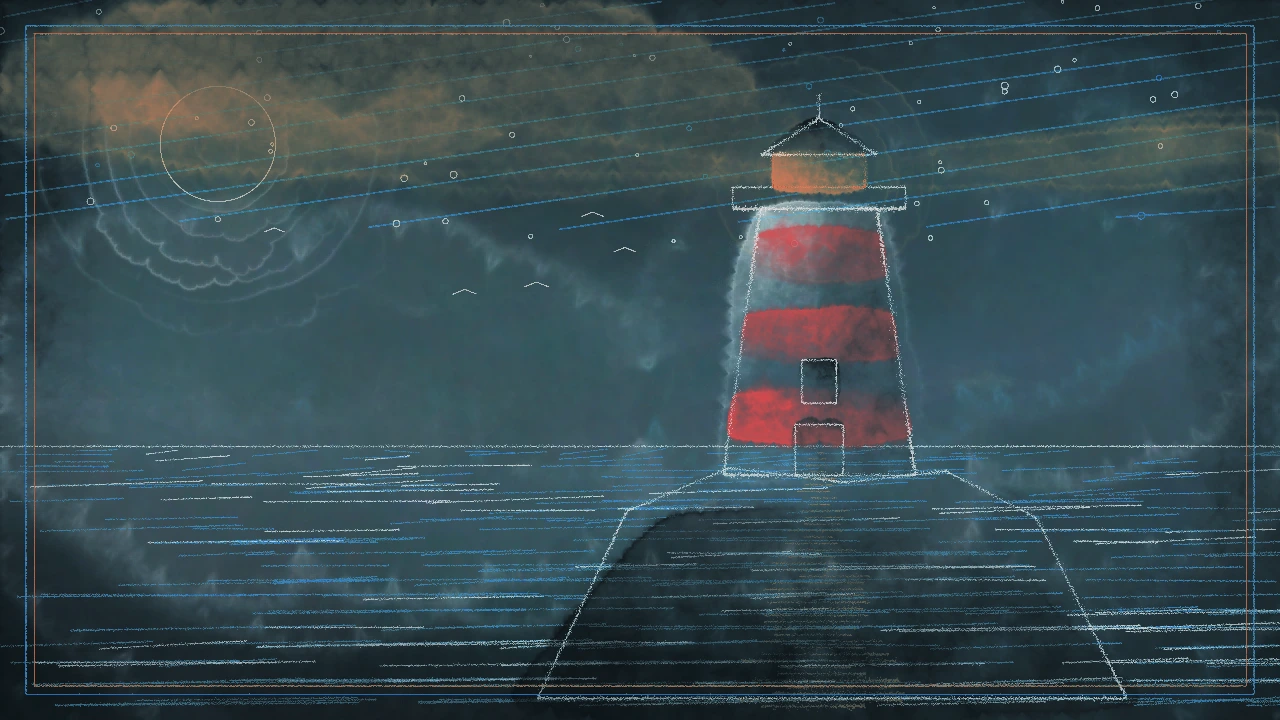
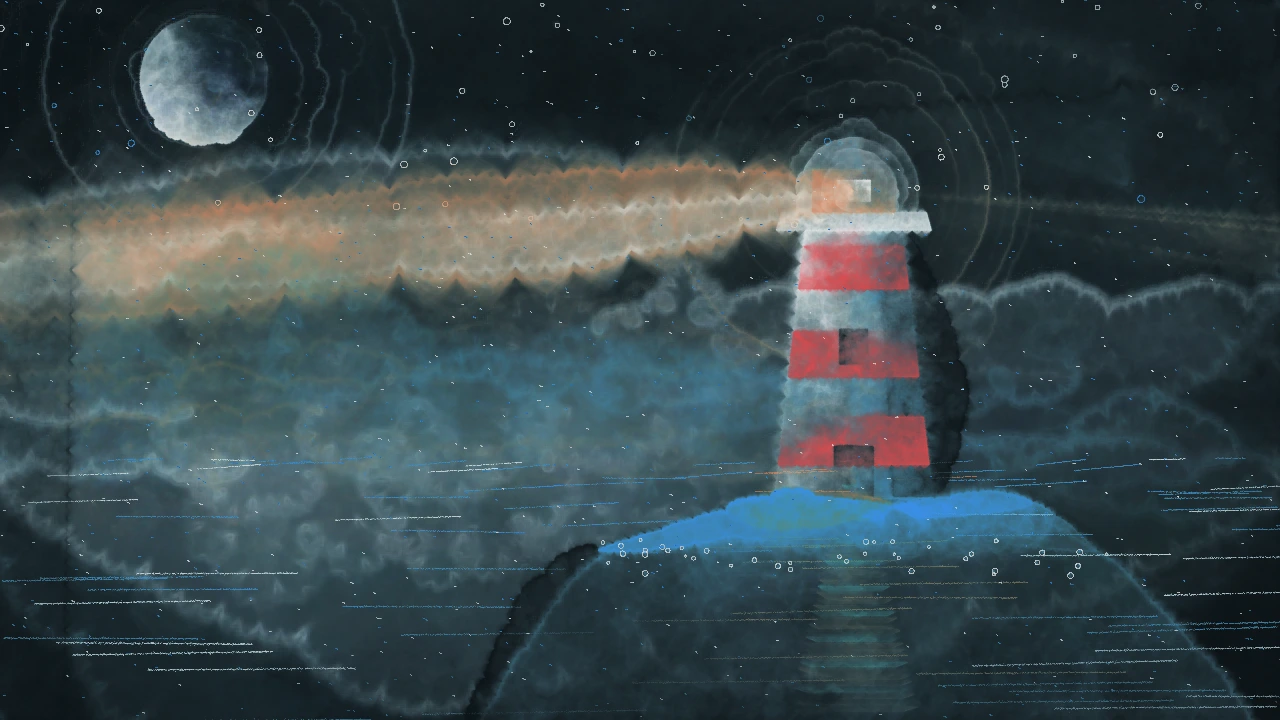
feat(art): enhance suspect portrait generation and media handling
- Introduced new suspect portrait generation scripts for "ansel-corbin-night-train-5s" and "hollis-brandt-lighthouse-4s", ensuring consistent artistic style and format.
- Updated catalog to reference WEBP formats for suspect images, improving performance and compatibility.
- Enhanced accuse panel to await sender's refetch after an accusation, ensuring real-time updates and smoother user experience.
- Improved media rendering process with new utility functions for mixing colors and painting techniques.

diff --git a/src/lib/use-room.ts b/src/lib/use-room.ts
@@ -44,11 +44,12 @@ export function useRoom(code: string) {
   const [reading, setReading_] = useState<Map<string, number[]>>(() => new Map());
   const chan = useRef<RealtimeChannel | null>(null);
   const mine = useRef<Presence>({ agent: 0, itemId: null });
-  const refetch = useRef<() => void>(() => {});
+  const refetch = useRef<() => Promise<unknown>>(async () => {});
 
   useEffect(() => {
     let live = true;
     let client: ReturnType<typeof createClient> | null = null;
+    let beat: ReturnType<typeof setInterval> | undefined;
     // State is only ever set in these promise callbacks, never synchronously in the effect.
     const refresh = () =>
       fetchView(code).then((res) => {
@@ -62,7 +63,7 @@ export function useRoom(code: string) {
         return null;
       });
 
-    refetch.current = () => void refresh();
+    refetch.current = refresh;
     void refresh().then(async (first) => {
       if (!live || !first) return;
       client = createClient();
@@ -88,11 +89,15 @@ export function useRoom(code: string) {
       // Re-read presence on every doorbell too: a late presence_diff once left a guest on "one agent online".
       ch.on("broadcast", { event: "state" }, () => {
         void refresh();
+        // Re-assert our own presence too: a reordered leave/join once left a guest on "three agents" for minutes.
+        void ch.track(mine.current);
         sync();
       }).on("presence", { event: "sync" }, sync);
       ch.subscribe((status) => {
         if (status !== "SUBSCRIBED") return;
         void ch.track(mine.current);
+        clearInterval(beat);
+        beat = setInterval(() => void ch.track(mine.current), 10_000); // heals any lost presence diff
         // Missed pings while offline are caught up on every (re)subscribe.
         void refresh();
       });
@@ -100,6 +105,7 @@ export function useRoom(code: string) {
 
     return () => {
       live = false;
+      clearInterval(beat);
       if (client && chan.current) void client.removeChannel(chan.current);
       chan.current = null;
       // Next keeps hidden routes mounted in <Activity>; wipe so the next visit starts clean.

diff --git a/src/lib/rooms.ts b/src/lib/rooms.ts
@@ -1,4 +1,5 @@
 import "server-only";
+import { after } from "next/server";
 import { ApiError } from "@/lib/api";
 import { adminClient } from "@/lib/supabase/admin";
 import { judge, validateGuess } from "@/lib/case/judge";
@@ -85,6 +86,7 @@ async function agentOf(room: RoomRow, userId: string): Promise<number> {
  * Doorbell only: an empty broadcast on the private `room:<CODE>` channel, sent over HTTP with the
  * secret key. Nothing secret can ride it; a failed ping just means clients refetch on reconnect.
  */
+// Runs after the response (`after`): the sender never waits on the broadcast round trip.
 async function ring(code: string) {
   const db = adminClient();
   const channel = db.channel(`room:${code}`, { config: { private: true } });
@@ -148,7 +150,7 @@ export async function joinRoom(rawCode: string, userId: string): Promise<{ code:
   const { error: iErr } = await db.from("members").insert({ room_id: room.id, user_id: userId, agent });
   if (iErr?.code === UNIQUE_VIOLATION) throw new ApiError("Someone took that seat a moment ago. Try again.", 409);
   if (iErr) throw iErr;
-  await ring(room.code);
+  after(() => ring(room.code));
   return { code: room.code };
 }
 
@@ -235,7 +237,7 @@ export async function togglePin(rawCode: string, userId: string, itemId: unknown
     const { error: iErr } = await db.from("pins").insert({ room_id: room.id, item_id: itemId, agent });
     if (iErr && iErr.code !== UNIQUE_VIOLATION) throw iErr; // a racing pin already did the job
   }
-  await ring(room.code);
+  after(() => ring(room.code));
   return { pinned: !removed?.length };
 }
 
@@ -268,7 +270,7 @@ export async function submitGuess(rawCode: string, userId: string, raw: unknown)
   });
   if (error) throw error;
   if (!claimed) throw new ApiError("Already answered", 409);
-  await ring(room.code);
+  after(() => ring(room.code));
   return { correct, guessesUsed: n };
 }
 

diff --git a/src/mysteries/catalog.ts b/src/mysteries/catalog.ts
@@ -26,8 +26,8 @@ export const COVERS: Record<string, string> = { "hollis-brandt-lighthouse-4s": "
 
 /** Suspect portrait URL per slug, keyed by suspect index (case.json order) as string. None = monogram tile. */
 export const PORTRAITS: Record<string, Record<string, string>> = {
-  "hollis-brandt-lighthouse-4s": { "0": "/cases/hollis-brandt-lighthouse-4s/suspects/wren-doyle.svg", "1": "/cases/hollis-brandt-lighthouse-4s/suspects/iris-venn.svg", "2": "/cases/hollis-brandt-lighthouse-4s/suspects/callum-pryce.svg", "3": "/cases/hollis-brandt-lighthouse-4s/suspects/marta-quill.svg" },
-  "ansel-corbin-night-train-5s": { "0": "/cases/ansel-corbin-night-train-5s/suspects/tilda-reeve.svg", "1": "/cases/ansel-corbin-night-train-5s/suspects/dr-osric-pell.svg", "2": "/cases/ansel-corbin-night-train-5s/suspects/ivo-sandre.svg", "3": "/cases/ansel-corbin-night-train-5s/suspects/calla-wren.svg", "4": "/cases/ansel-corbin-night-train-5s/suspects/bram-okafor.svg" },
+  "hollis-brandt-lighthouse-4s": { "0": "/cases/hollis-brandt-lighthouse-4s/suspects/wren-doyle.webp", "1": "/cases/hollis-brandt-lighthouse-4s/suspects/iris-venn.webp", "2": "/cases/hollis-brandt-lighthouse-4s/suspects/callum-pryce.webp", "3": "/cases/hollis-brandt-lighthouse-4s/suspects/marta-quill.webp" },
+  "ansel-corbin-night-train-5s": { "0": "/cases/ansel-corbin-night-train-5s/suspects/tilda-reeve.webp", "1": "/cases/ansel-corbin-night-train-5s/suspects/dr-osric-pell.webp", "2": "/cases/ansel-corbin-night-train-5s/suspects/ivo-sandre.webp", "3": "/cases/ansel-corbin-night-train-5s/suspects/calla-wren.webp", "4": "/cases/ansel-corbin-night-train-5s/suspects/bram-okafor.webp" },
 };
 
 export function lexiconFor(slug: string): Lexicon {

diff --git a/src/components/desk/accuse-panel.tsx b/src/components/desk/accuse-panel.tsx
@@ -27,7 +27,7 @@ export function AccusePanel({
   c: CaseFile;
   guessesLeft: number;
   onClose: () => void;
-  onSent?: () => void;
+  onSent?: () => Promise<unknown> | void;
   d: Draft;
   setD: Dispatch<SetStateAction<Draft>>;
 }) {
@@ -65,7 +65,7 @@ export function AccusePanel({
     sfx.stamp();
     const res = await postJson<{ correct: boolean }>(`/api/rooms/${code}/guesses`, { who: d.who, nobody: d.nobody, motive: d.motive, method: d.method });
     if (res.success) {
-      onSent?.(); // sender refetches itself; the doorbell brings the verdict to the other devices
+      await onSent?.(); // sender refetches itself (panel stays up till the verdict lands, no blank desk); the doorbell brings it to the others
       onClose();
     }
     else {
@@ -155,6 +155,7 @@ export function AccusePanel({
       </div>
 
       <div className="sticky bottom-0 flex flex-col gap-3 border-t border-blue/30 bg-background pt-3 pb-[env(safe-area-inset-bottom)] lg:static lg:max-w-lg lg:border-t-0 lg:pt-0">
+        {busy && <p role="status" className="text-body text-orange motion-safe:animate-flicker-in">Checking the accusation…</p>}
         <p key={recap} className="pixel-border pb-blue w-[calc(100%-6px)] p-3 text-body text-white motion-safe:animate-print">
           <span className="text-blue">Accusation slip: </span>
           {recap || "nothing picked yet."}

diff --git a/src/components/desk/desk.tsx b/src/components/desk/desk.tsx
@@ -52,7 +52,7 @@ export function Desk({
   reading: Record<string, number[]>;
   onReading?: (itemId: string | null) => void;
   /** Called after this device changes the room (pin, accusation) so it refetches without waiting for its own doorbell. */
-  onChanged?: () => void;
+  onChanged?: () => Promise<unknown> | void;
   lexicon?: Lexicon;
   initial?: DeskInitial;
 }) {

diff --git a/CLAUDE.md b/CLAUDE.md
@@ -120,6 +120,7 @@ Rules here; history and state there. Update same turn as change (§8). Imported 
 - **Server-authoritative.** Whole case file open at once, same on every device; friends (up to 8 agents) read together, host accuses. Logic in `src/lib/rooms.ts` + `src/lib/case/{judge,score}.ts`, runs only in route handlers. Clients never judge.
 - **Case = repo folder** `src/mysteries/<slug>/`, written by `murder-mystery-story-tree` skill: `case.json` (`mm-case-file/1`, public), `solution.json` (`mm-case-solution/1`, secret), `lexicon.json`, optional `public/cases/<slug>/cover.svg`; `validate_case.py` = 0 errors **and 0 warnings**. Solutions only in `src/mysteries/index.ts` (`server-only`); words/covers/card in `catalog.ts` (`LEXICON`, `COVERS`). New case registered in **both**. Item text never names the killer.
 - **Realtime = doorbell, not pipe.** After each mutation server sends payload-free `state` broadcast on private channel `room:<CODE>`; clients refetch `GET /api/rooms/[code]`. Presence key = agent, payload `{agent, itemId}` shows who reads what (`useRoom().reading`). Why: nothing secret can leak over a channel carrying nothing; reconnect = refetch.
+- **Doorbell rings after the response** (`after()` in `rooms.ts`), never awaited by the sender; each device re-tracks presence on every doorbell + every ten seconds (2026-10-23 playthrough: guests stuck on "three agents", host blank ~4s on Present). Accuse panel waits for the sender's own refetch before closing.
 - **Sender refetches itself:** after its own pin or accusation the device calls `useRoom().refresh()` (`onChanged`); the doorbell is for the *other* devices. Why: in the 2026-10-23 playthrough the guest got the verdict over Realtime but the host stayed on the desk; the host never waited on its own broadcast again.
 - **Pins** = shared evidence strip, `POST /pins` toggles; only folder items pinnable (`togglePin` rejects others).
 - **Guess race:** two guesses per room. Claim by `update rooms set guesses_used = n where status='playing' and guesses_used = n-1`; one request wins, other 409. Host-only (403 otherwise). Claim, guess row, end and result run in one transaction: SQL fn `submit_guess` (migration `20261023000000_guess_tx`, service_role only) called via `adminClient().rpc`. Why: separate writes could leave a room half-finished.

diff --git a/scripts/art/README.md b/scripts/art/README.md
@@ -6,7 +6,7 @@ Every image is a p5.brush painting rendered once in headless Chromium and commit
 node scripts/art/render.mjs scripts/art/paintings/<name>.mjs public/cases/<slug>/<out>.webp [w h]
 ```
 
-Default size 1280x720 (16:9, what `<Cover>` shows). Takes about 40s (software GL). Needs `playwright-core` (devDependency) and a cached Chromium (`npx playwright-core install chromium` if missing).
+Default size 1280x720 (16:9, what `<Cover>` shows). Takes 1-7 minutes with many large washes (software GL); run in background. Needs `playwright-core` (devDependency) and a cached Chromium (`npx playwright-core install chromium` if missing).
 
 ## New painting
 
@@ -24,7 +24,7 @@ export default async function paint(brush, { W, H }) {
 
 Look at the output (open the image), iterate. Reference: `paintings/lighthouse-cover.mjs`.
 
-- Kit: `begin wash ink hatchRect stars sea glow beam bust frame vignette rng`. Add helpers there, not in paintings.
-- `bust` uses one face for everyone; vary hair, clothes, accessory, accent only. Never hint the killer.
+- Kit: `begin wash blob ink hatchRect stars sea glow beam bust frame grain vignette rng`. Prefer filled `wash` masses over outlines (painterly look). Add helpers there, not in paintings.
+- `bust` uses one face for everyone; vary hair, clothes, collar, accessory, age, tilt, accent only. Never hint the killer. Suspects: `scripts/art/paintings/suspects-<slug>.mjs` (specs list) + `node scripts/art/render-suspects.mjs <slug> [index]` -> `suspects/<name-slug>.webp` 512x512.
 - Wash alpha is scaled x2.6 in `wash`; glow x3 (p5.brush fills read faint).
 - Portraits: `suspects/<name-slug>.webp`. Evidence: `evidence/<item-id>.webp`. Cover: `cover.webp`. Register in `src/mysteries/catalog.ts`.

diff --git a/docs/DECISIONS.md b/docs/DECISIONS.md
@@ -92,3 +92,4 @@
 - 2026-10-23 — Palette blue #2472C8→#3B8EEA, red #CD3131→#E5484D (AA 4.5:1 on obsidian); decision log moved to docs/DECISIONS.md, no longer imported; vtt <track> dropped (burned-in captions) — user: 'do whatever saves cost and makes best app'.
 - 2026-10-23 — brag-output/ (promo video build) gitignored — user: pick best; skill brag-slim used from ~/.claude/skills.
 - 2026-10-23 — Art = p5.brush everywhere (covers, portraits, evidence, backdrops), Hairline removed from repo; mystery story + media + art + trailer always generated by Opus; promo = fully animated 30s landscape trailer, score+VO+foley, movie-grade — user: current art/brag video not good enough.
+- 2026-10-23 — Doorbell via `after()`, presence re-track on doorbell + 10s heartbeat, accuse panel awaits own refetch before closing — prod playthrough showed stuck presence count and blank host wait
